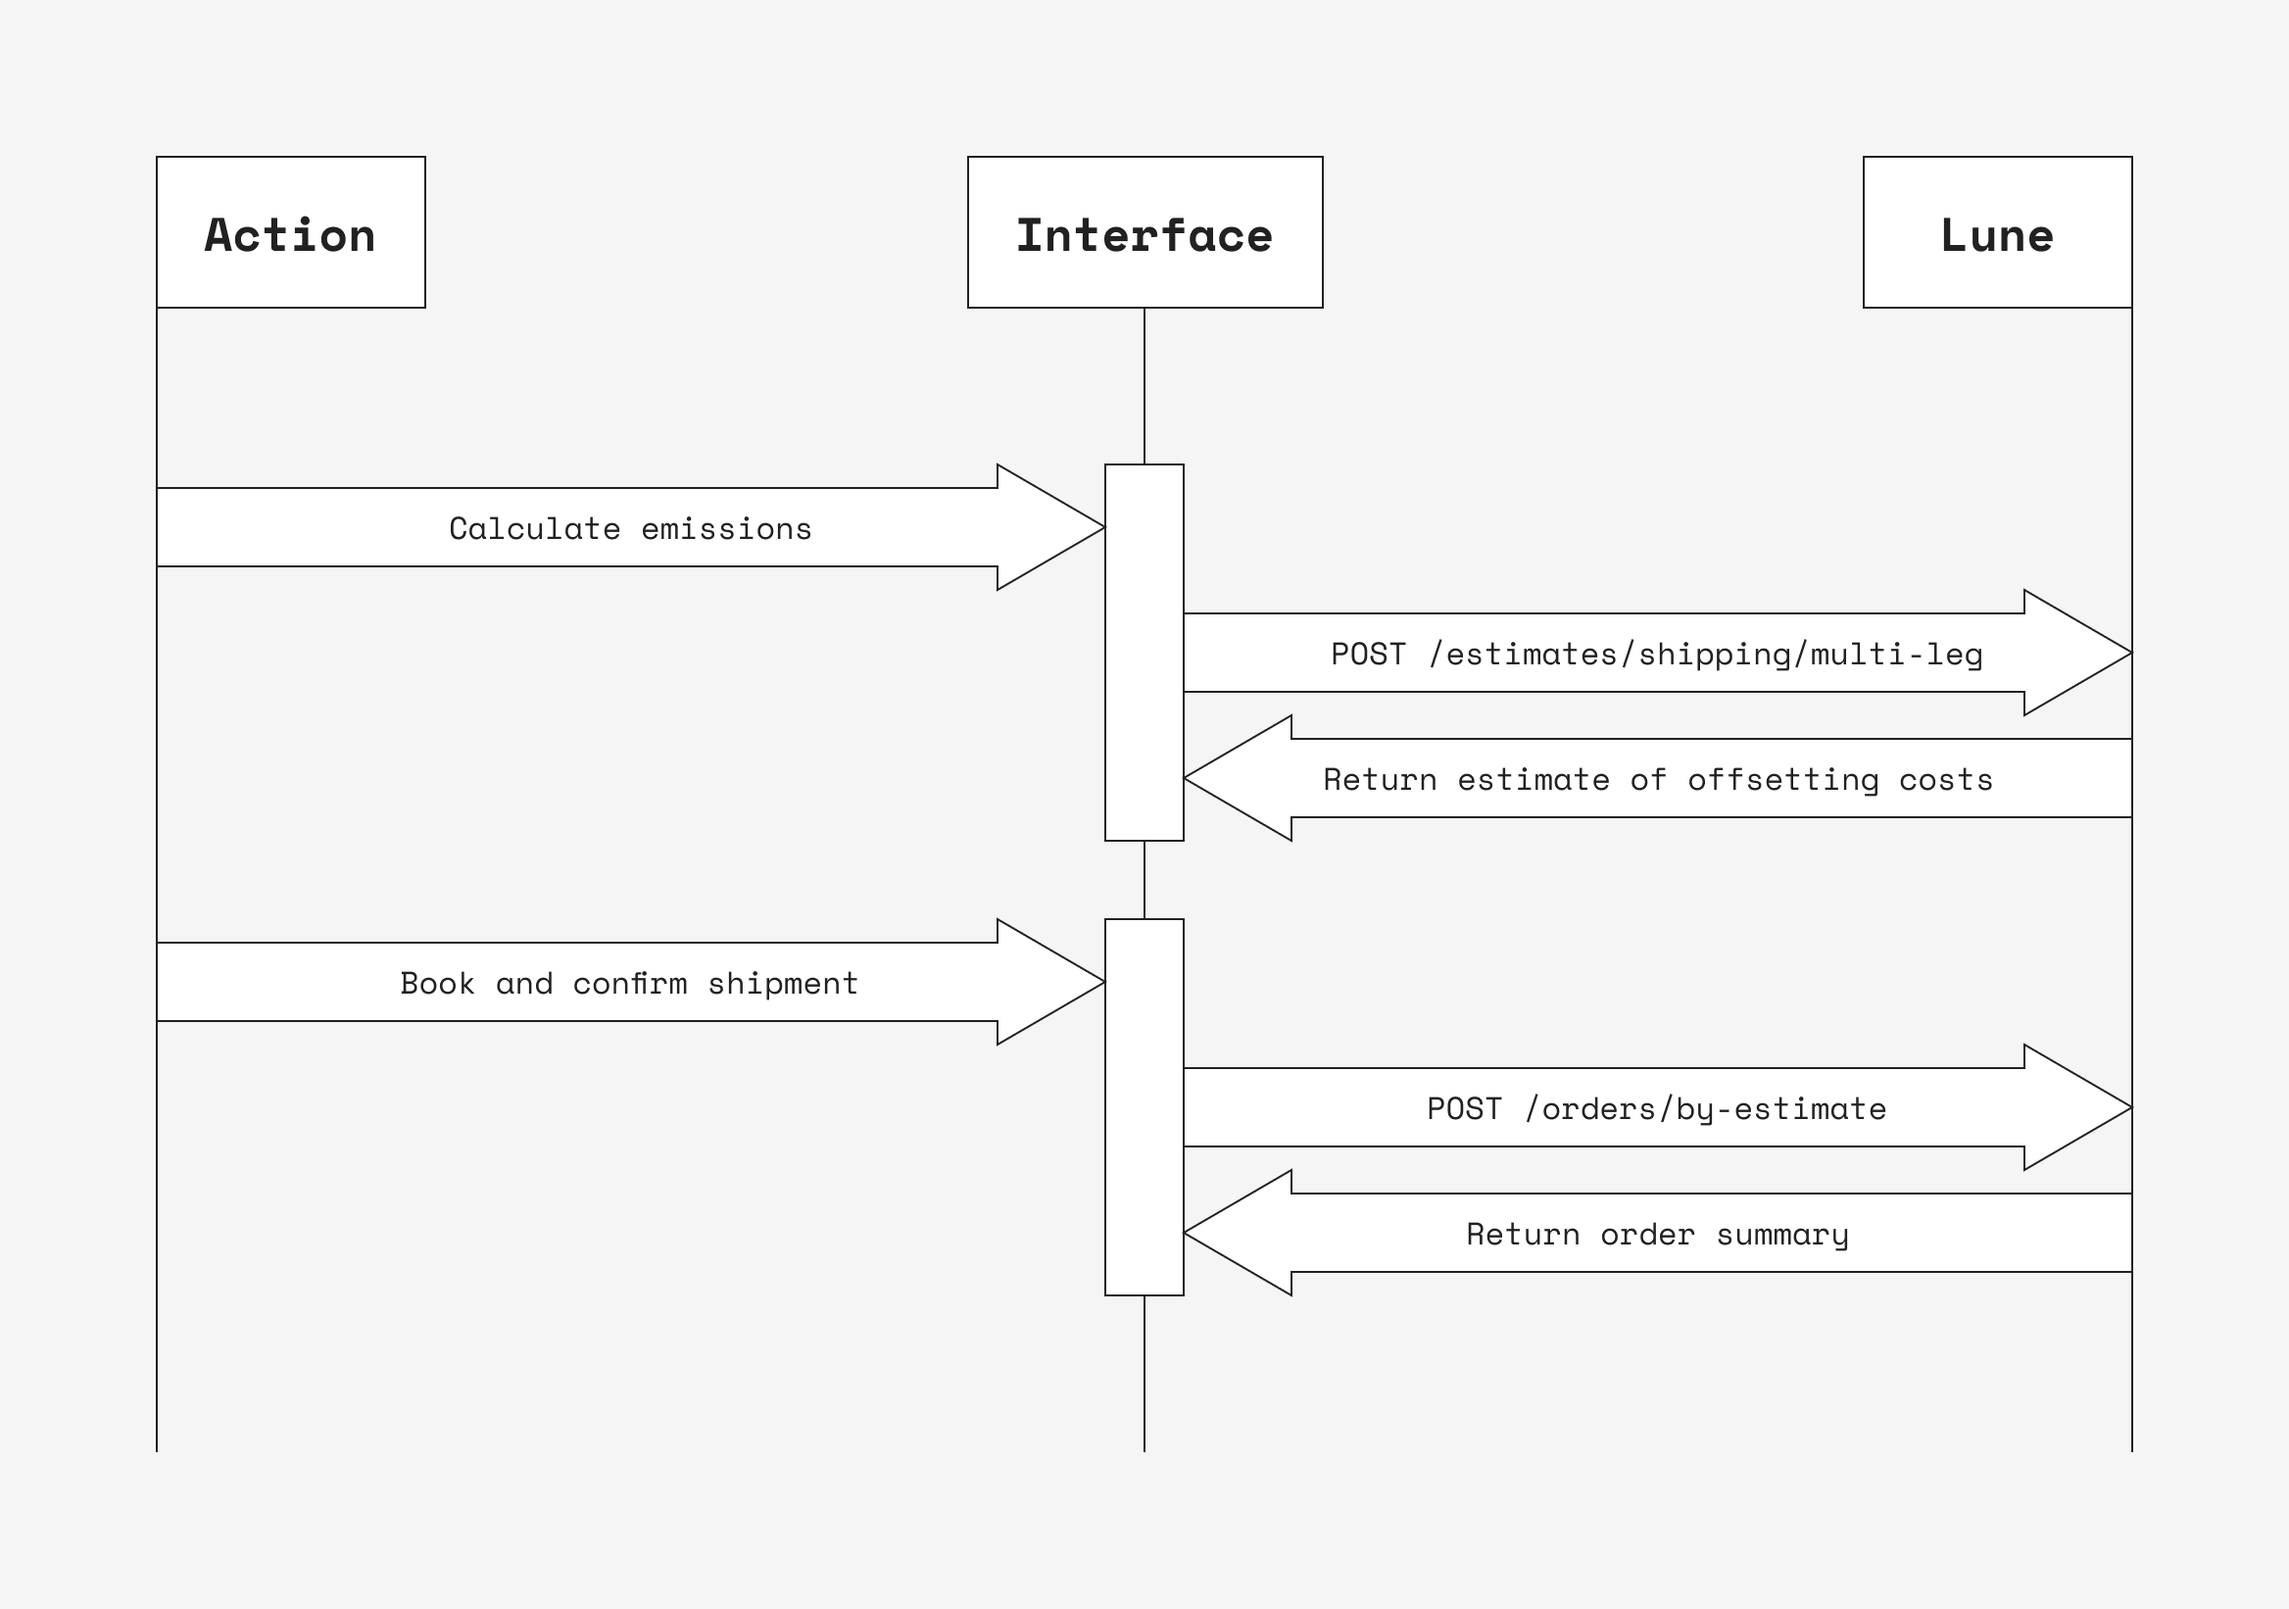
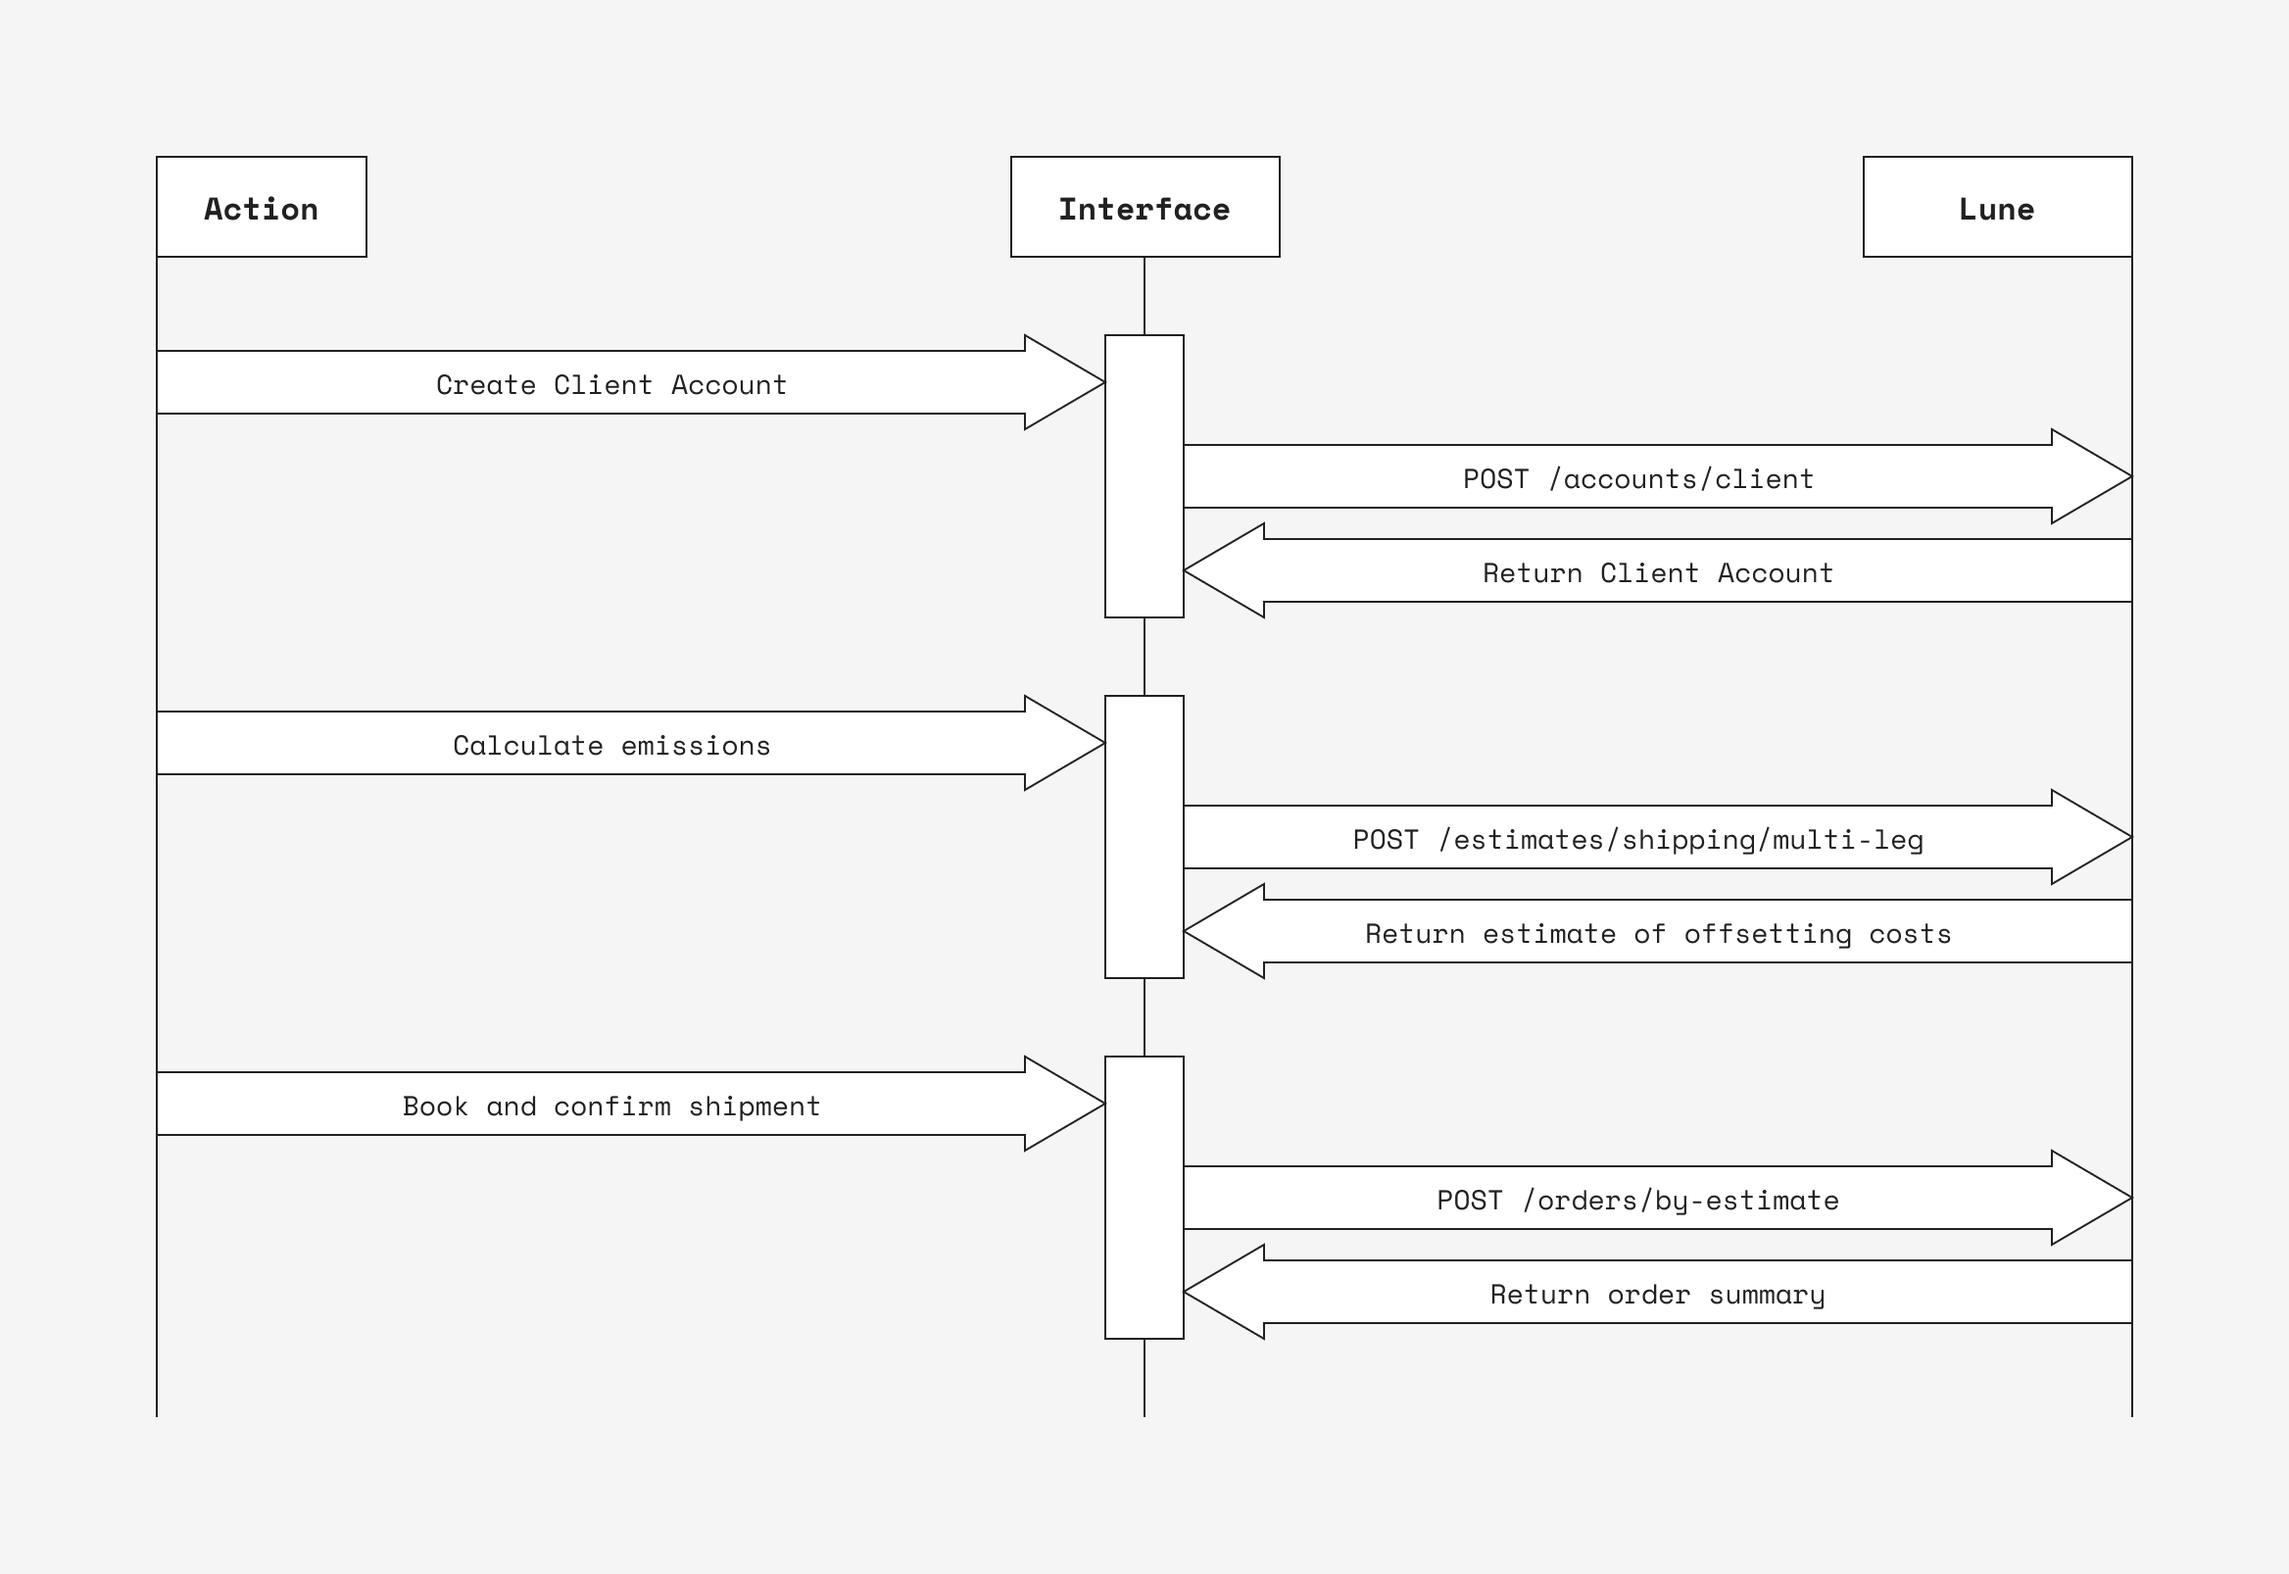
Refine logistics guide styles
* Change api flow diagram
* Change markdown highlighing border radius
* Add Tip component

diff --git a/src/components/Tip.tsx b/src/components/Tip.tsx
@@ -1,0 +1,26 @@
+import LightbulbOutlinedIcon from '@mui/icons-material/LightbulbOutlined'
+import { ListItem, ListItemIcon, ListItemText } from '@mui/material'
+import React from 'react'
+
+export default function Tip({ children }: { children: React.ReactNode }) {
+    return (
+        <ListItem
+            disableGutters
+            alignItems="center"
+            sx={{
+                p: 2,
+                mb: 2,
+                borderRadius: '8px',
+                backgroundColor: '#F5F5F5', // Grey100
+                '& p': {
+                    mb: 0,
+                },
+            }}
+        >
+            <ListItemIcon>
+                <LightbulbOutlinedIcon />
+            </ListItemIcon>
+            <ListItemText>{children}</ListItemText>
+        </ListItem>
+    )
+}

diff --git a/src/css/custom.css b/src/css/custom.css
@@ -158,5 +158,10 @@ pre {
     margin-bottom: 0px;
 }
 
+code {
+    border: 0.063rem solid rgba(0,0,0,.1);
+    border-radius: 0.25rem;
+}
+
 /* Make sure we have the lune-ui-lib global CSS included */
 @import "lune-ui-lib/dist/esm/index.css"

diff --git a/docs/guides/integrate-logistics-2.md b/docs/guides/integrate-logistics-2.md
@@ -3,6 +3,7 @@ hide_table_of_contents: true
 ---
 
 import Snippet  from '@site/src/components/Snippet';
+import Tip from '@site/src/components/Tip';
 import { indent } from '@site/src/utils';
 import { ApiReferenceSection } from 'lune-ui-lib'
 
@@ -43,7 +44,11 @@ to integrate CO₂ emissions estimations and offsetting into an existing end-use
 
 Feel free to contact our [support team](mailto:support@lune.com) if you encounter any issues integrating our logistics use case.
 
-**NOTE**: Lune is [Smart Freight Centre](https://www.notion.so/luneco/Shipping-Emission-Calculations-f591e8b57c72421ebb4790a88ef8d0e9) accredited, following the GLEC Framework.
+<Tip>
+
+Lune is [Smart Freight Centre](https://www.notion.so/luneco/Shipping-Emission-Calculations-f591e8b57c72421ebb4790a88ef8d0e9) accredited, following the GLEC Framework.
+
+</Tip>
 
 </div>
 <div>
@@ -81,13 +86,13 @@ Feel free to contact our [support team](mailto:support@lune.com) if you encounte
 
 First, head over to the Lune dashboard and generate a new API key.
 
-1) Navigate to [https://dashboard.lune.co/developers](https://dashboard.lune.co/developers)
+1. Navigate to [https://dashboard.lune.co/developers](https://dashboard.lune.co/developers)
 
-2) Select **New Test API Key**, enter a value in the _Name_ field, and select an account from _Default account_
+2. Select **New Test API Key**, enter a value in the _Name_ field, and select an account from _Default account_
 
-3) Select **Save**
+3. Select **Save**
 
-4) Copy your API key, as you'll need it to interact with the Lune API
+4. Copy your API key, as you'll need it to interact with the Lune API
 
 </>
 <>
@@ -108,7 +113,11 @@ First, head over to the Lune dashboard and generate a new API key.
 
 A [client account](/resources/client-accounts/create-client-account) is required for each of your clients and defines their basic characteristics, for example, the currency used to display emission offsetting prices.
 
-**INFO**: Store and map the client id map to your client in your code base.
+<Tip>
+
+Store and map the client id map to your client in your code base.
+
+</Tip>
 
 </div>
 <div>
@@ -134,8 +143,11 @@ A successful request will return a unique id, which you will need to pass in lat
 
 Following a successful response, a client account will be added to your dashboard:
 
+<Tip>
 
 You can access the dedicated client account page by appending the `id` to `/client-account` e.g., `https://dashboard.lune.co/settings/client-accounts/K4enjo9g08vx3MpjnbpPrEZ57XJkDVdb`.
+
+</Tip>
 
 </div>
 </div>
@@ -615,7 +627,7 @@ A successful request will return an order summary, which can be displayed as par
   "estimate_id": "08QD7GPaBx5b6Y6mJlWyONXLvrZljRE2",
   "requested_quantity": "1.105698",
   "requested_value": null
-    }`}
+}`}
 />
 
 ![order-confirmation](/img/logistics-confirmation.png)
